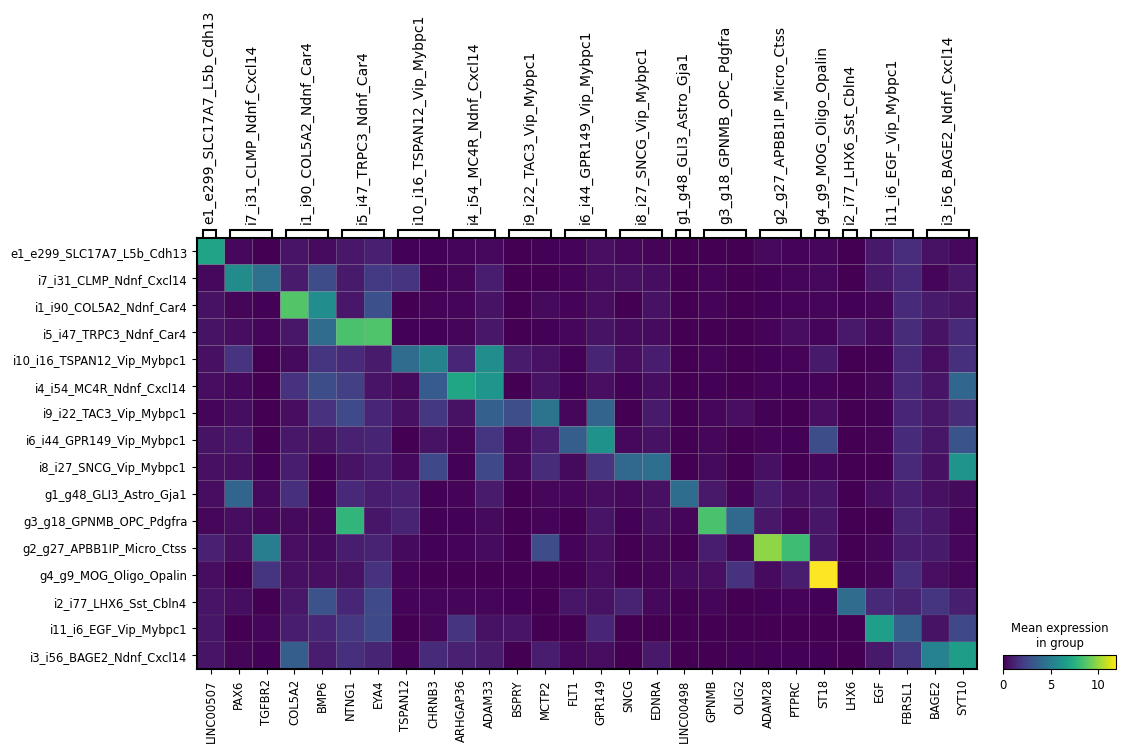
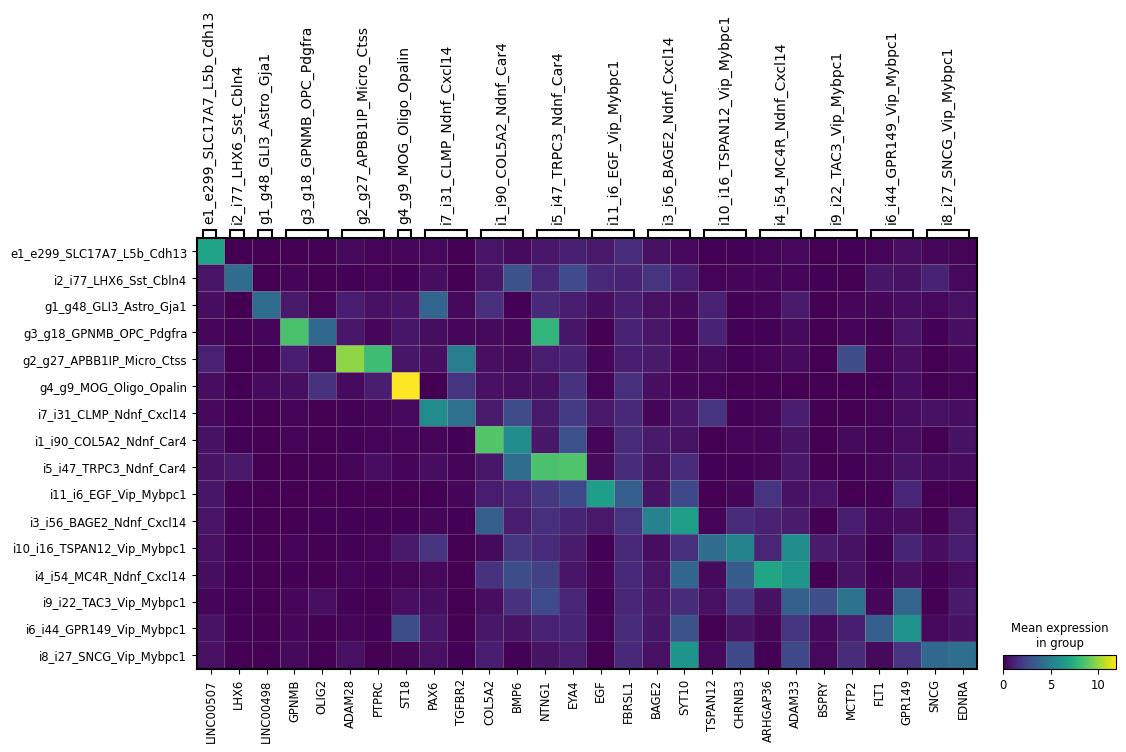
Fix ValueErorr in dendrogram call

diff --git a/beckersv/pipeline_nsforesting_genetype.py b/beckersv/pipeline_nsforesting_genetype.py
@@ -7,7 +7,7 @@ This script contains the code for running a comparative
 NS-Forest based analysis of a full dataset and a specificed gene type subset.
 
 The steps to run this script are as follows:
-1. Initialize a NSForestComparison object with the appropriate file paths.
+1. Initialize a NSLumberjack object with the appropriate configuration file paths.
 2. Set up the desired data using the set_data method.
 3. Set the gene type(s) subset using the set_genetype_subset method.
 4. Run the NS-Forest analysis on both the full dataset and the gene type(s) subset using
@@ -28,7 +28,7 @@ pio.renderers.default = "notebook"
 import nsforest as ns
 from nsforest import utils
 
-class NSForestComparison:
+class NSLumberjack:
     def __init__(self, code_folder: str, data_folder: str, output_folder: str):
         self.code_folder = code_folder
         self.data_folder = data_folder